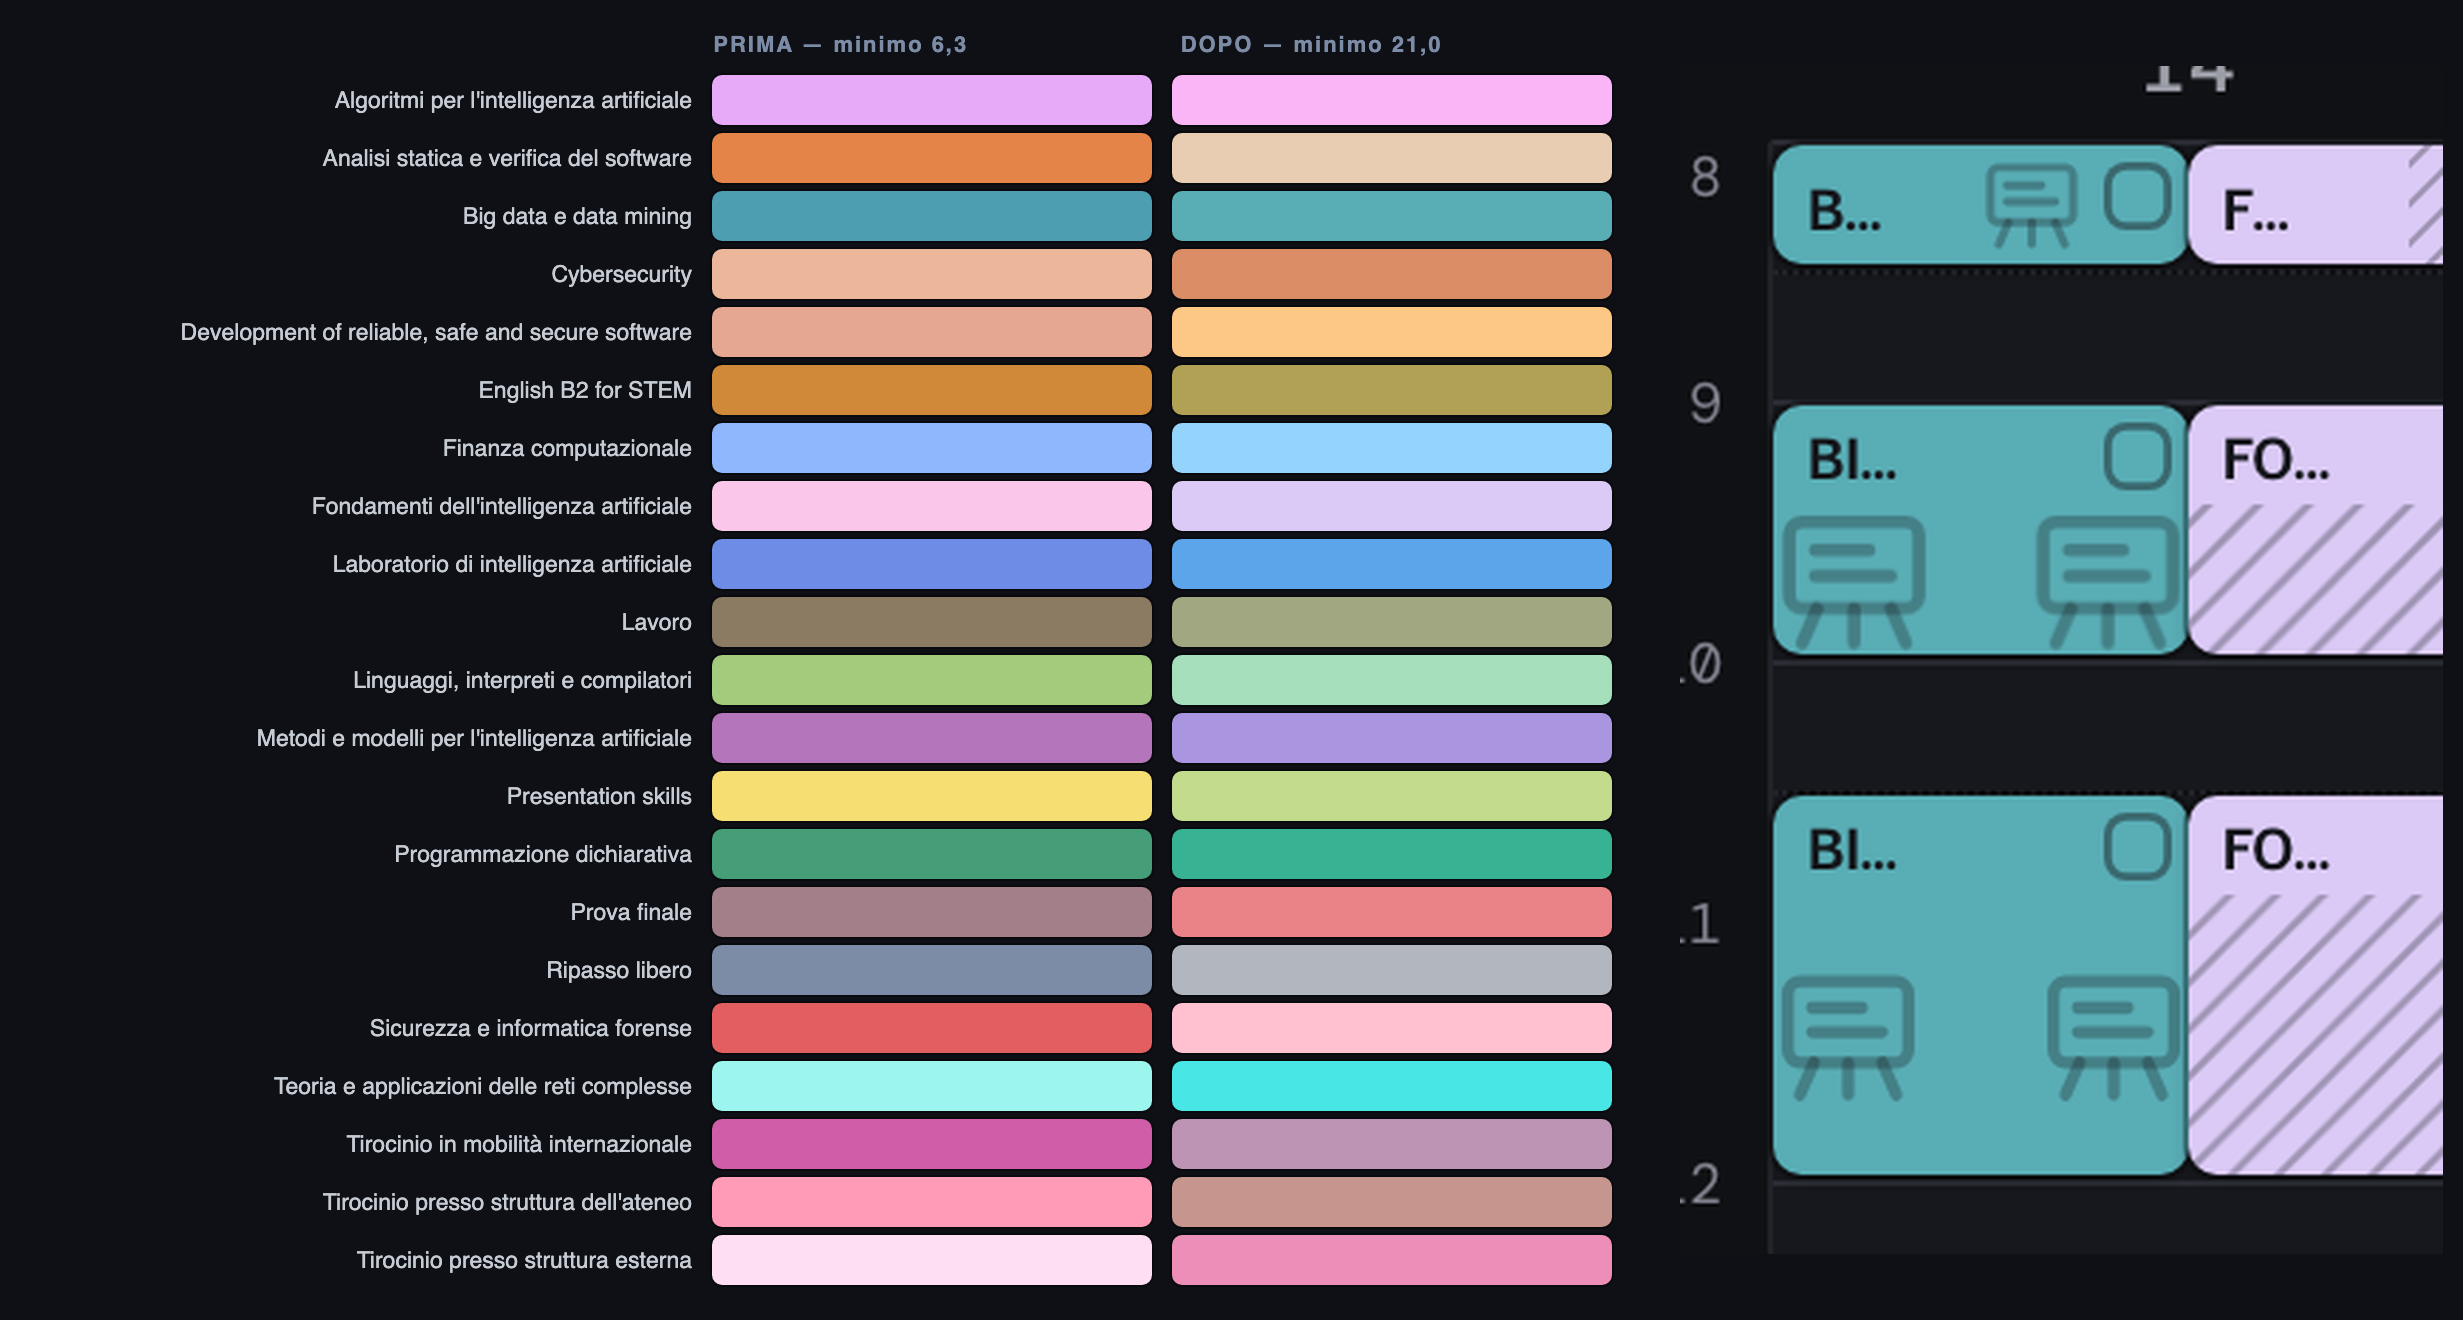
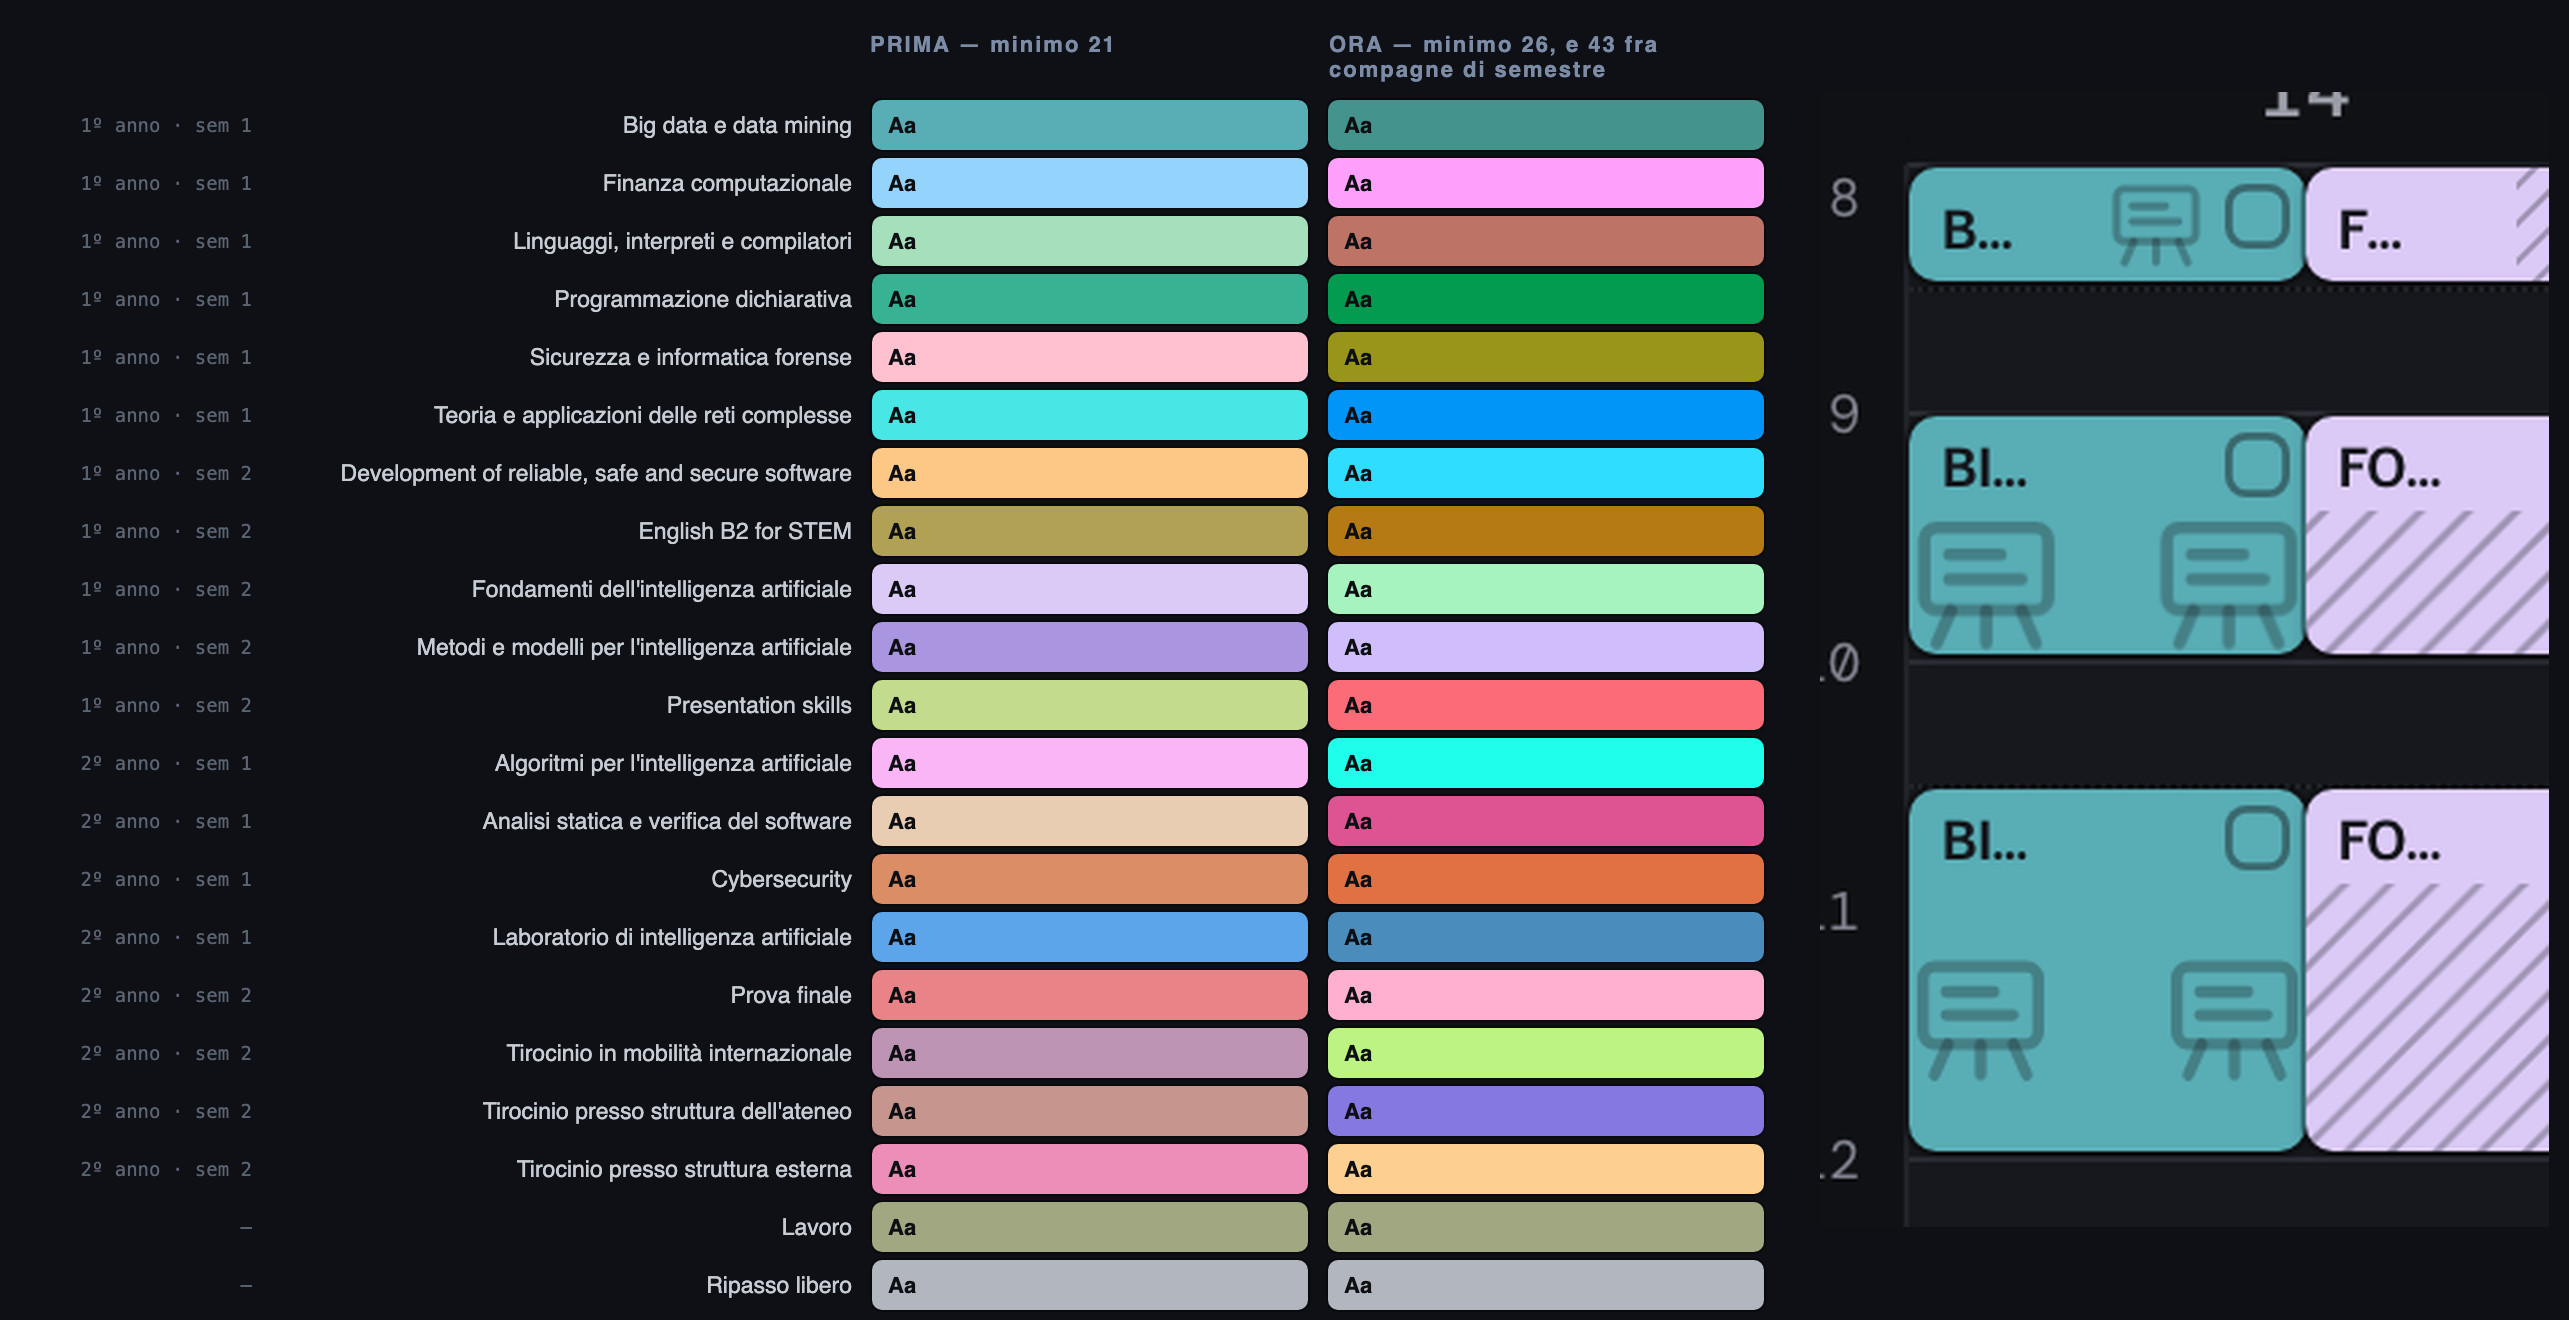
Colori davvero diversi: via le famiglie, e chi divide il semestre sta lontano
Avevo lasciato a meta'. Il primo giro teneva ogni materia dentro la sua
famiglia di tinta — dati sul turchese, sicurezza sul rosso — e proprio per
questo teneva vicine le tinte che poi si guardano una accanto all'altra dentro
la stessa settimana: la coppia peggiore stava a 21, meglio di 6,3 ma non
abbastanza.

Tre cose cambiate, in ordine di quanto contano.

Le famiglie non ci sono piu': le ventuno tinte sono scelte solo per stare
lontane fra loro. La gamma comprende anche toni piu' scuri, perche' il limite
vero non e' il colpo d'occhio ma il 4,5:1 di contrasto con la scritta nera, che
regge fino a L* 56 — mi ero fermato a 66 senza motivo.

La chiarezza pesa meno della meta' nel calcolo della distanza. Col peso pieno
il primo tentativo arrivava a 32, ma se lo prendeva quasi tutto sulla
chiarezza: due verdi, uno chiaro e uno scuro, che il numero diceva lontani e
l'occhio diceva parenti. Meglio 26 di distanza fatta di tinta.

Poi l'assegnazione, che e' la parte che si vede davvero. Chi divide il semestre
finisce nella stessa settimana, ed e' li' che due colori simili si scambiano di
posto: le compagne di semestre si scambiano il colore finche' la coppia
peggiore, li' dentro, non e' la piu' lontana possibile. Passa da 26 a 43. Nel
tuo primo semestre adesso ci sono un teal, un verde pieno, un magenta, un
mattone, un oliva e un blu: sei tinte che non si somigliano.

Nel farlo e' saltato fuori un controllo del pomodoro che dipendeva dall'ora
[…]

diff --git a/index.html b/index.html
@@ -1603,10 +1603,10 @@ const COURSES={
    qualunque, misurata in CIELAB, passa da 7 a 19; tutte stanno sopra il 5:1
    di contrasto con la scritta nera, e nessuna somiglia al grigio del ripasso
    libero o al verde-oliva del lavoro. */
-const PAL=["#FF97B3","#E7857D","#FBC5BA","#C59774","#FBC181","#E3D0A4",
-           "#B49F54","#D0D886","#80AD67","#8FE4AC","#ADDCC7","#19B49F",
-           "#69ABAE","#6CE3ED","#02ADDE","#9CD9FE","#83A3CB","#79A0EB",
-           "#D2CCFD","#B392DB","#FEB4F4","#CA90A8"];
+const PAL=["#AD7881","#E3575F","#F8B09A","#AE7C49","#FAAA52","#FAE0A1",
+           "#92881F","#E9E86F","#5EA749","#AEF3B2","#19BC8C","#1FFDEB",
+           "#A8F0E9","#0B9691","#2DD8FF","#3B8FB4","#14A8FD","#8680B5",
+           "#DDC8FF","#AA6CD1","#FAA0CC","#DE5493"];
 const SWATCHES=["#6E8BFF","#8FA4E8","#5FA8D3","#4A8FBE","#63C2C2","#4EA5A5",
                 "#4FB3A0","#3F8F7E","#82B356","#6B9440","#B0A24E","#E0A458",
                 "#C98A3C","#E08A5B","#BF6E44","#D96C7B","#B85566","#C97BB0",
@@ -2178,45 +2178,50 @@ const shortOf=n=>n.length>17?n.slice(0,16)+"…":n;
    quattro della chiusura del percorso, che però stanno tutti nello stesso
    semestre e dovendo distinguersi solo per luminosità strozzavano l'intera
    tavolozza. Tutti reggono il testo nero, da 5,0:1 a 14,6:1. */
-/* Il colore di ogni materia. Stanno in famiglie — dati e reti sul turchese,
-   sicurezza sul rosso, intelligenza artificiale sul viola — perché la famiglia
-   aiuta a orientarsi in un piano da venti materie. Ma dentro la famiglia si
-   somigliavano troppo: due tinte del gruppo sicurezza distavano 6,3 in CIELAB,
-   e sotto 20 due blocchi vicini si leggono come lo stesso blocco. Adesso ogni
-   materia resta nella sua famiglia — la tinta si sposta al massimo di trenta
-   gradi — e la distanza se la prende sulla chiarezza e sulla saturazione: la
-   coppia più vicina sta a 21. Nessuna scende sotto 5:1 di contrasto con la
-   scritta nera, che sui blocchi è sempre nera. */
+/* Il colore di ogni materia. Le famiglie non ci sono piu' — dati sul
+   turchese, sicurezza sul rosso — perche' tenerle voleva dire tenere vicine
+   proprio le tinte che si guardano una accanto all'altra nella stessa
+   settimana. Le ventuno tinte sono scelte per stare lontane in CIELAB, con la
+   chiarezza che pesa meno della meta': due colori che cambiano solo di
+   chiarezza restano parenti all'occhio anche quando il numero dice il
+   contrario, ed era il difetto del primo tentativo. La coppia piu' vicina in
+   assoluto sta a 26 (all'inizio 6,3), ed e' quella fra ripasso libero e
+   lavoro, che sono neutri di proposito; fra le materie il minimo e' 28.
+   Poi l'assegnazione: chi divide il semestre finisce nella stessa settimana,
+   quindi le compagne di semestre si scambiano il colore fino a stare il piu'
+   lontano possibile fra loro — la coppia peggiore, li' dentro, passa da 26 a
+   43. La gamma comprende toni piu' scuri di prima: il limite vero e' il 4,5:1
+   di contrasto con la scritta nera, che regge fino a L* 56. */
 const MATCOL={
   /* Dati e reti */
-  "c:1009070":"#59ADB5",
-  "c:1014075":"#48E7E5",
+  "c:1009070":"#44938C",
+  "c:1014075":"#0195F7",
   /* Metodi numerici */
-  "c:1013075":"#94D4FC",
+  "c:1013075":"#FEA0FC",
   /* Linguaggi e programmazione */
-  "c:1009064":"#A5DFBB",
-  "c:1009066":"#37B393",
+  "c:1009064":"#BD7365",
+  "c:1009066":"#039B4F",
   /* Sicurezza e affidabilità */
-  "c:1014073":"#FFC1D0",
-  "c:1010559":"#DB8E65",
-  "c:1009069":"#FDC885",
-  "c:1013066":"#E9CDB2",
+  "c:1014073":"#98951A",
+  "c:1010559":"#E17143",
+  "c:1009069":"#2FDEFF",
+  "c:1013066":"#DE5493",
   /* Intelligenza artificiale */
-  "c:1009065":"#DBCAF6",
-  "c:1013067":"#A995E0",
-  "c:1009071":"#FAB5F7",
-  "c:1009073":"#5CA5EB",
+  "c:1009065":"#A7F3C0",
+  "c:1013067":"#CFBDFC",
+  "c:1009071":"#1FFDEB",
+  "c:1009073":"#4A8CBC",
   /* Lingua e competenze */
-  "c:1010779":"#B1A154",
-  "c:1007808":"#C3DB8C",
+  "c:1010779":"#B67A15",
+  "c:1007808":"#FC6C78",
   /* voci di servizio: ripasso senza materia e lavoro, neutre di proposito */
   "_gen":"#B2B7BF",
   "_lav":"#A1A781",
   /* Chiusura del percorso */
-  "c:24688":"#E98387",
-  "c:1006660":"#BE94B4",
-  "c:1006659":"#C5958E",
-  "c:1006658":"#ED8EB8"
+  "c:24688":"#FFB0D1",
+  "c:1006660":"#BDF382",
+  "c:1006659":"#8578E1",
+  "c:1006658":"#FDD091"
 };
 
 /* Colore predefinito ricavato dall'id, così resta lo stesso in ogni anno e

diff --git a/test/suite.js b/test/suite.js
@@ -134,14 +134,19 @@
        il primo si chiude e il secondo prende quello che resta */
     pulisci();apri();
     state.pomConf={SCH:{s:45,b:12,l:20,n:2}};
-    placeRun(oggi,ORA,{i:it[0].id,a:"SCH",len:3},0);
-    placeRun(oggi,ORA+4,{i:it[0].id,a:"SCH",len:3},0);
-    var g=slotDiOggi("SCH");
-    pomStart("SCH",[{date:g.date,start:g.start,lane:g.lane}]);
+    /* Ore fisse del mattino, non l'ora di adesso: partendo da ORA, un banco di
+       prova lanciato di sera piazzava il secondo blocco a mezzanotte, fuori
+       dalla giornata, e il controllo diventava rosso per l'orologio invece che
+       per un difetto. Restano tutt'e due nella stessa fascia, che e' quello
+       che il controllo vuole provare. */
+    var A=8*PERQ,B=10*PERQ;
+    placeRun(oggi,A,{i:it[0].id,a:"SCH",len:3},0);
+    placeRun(oggi,B,{i:it[0].id,a:"SCH",len:3},0);
+    pomStart("SCH",[{date:oggi,start:A,lane:0}]);
     for(var i=0;i<6;i++)pomAdvance(true);
     var c=function(a,b){var k=0;for(var j=a;j<b;j++){
       var v=at(ck(oggi,j))[0];if(v&&v.done)k++;}return k;};
-    var uno=c(ORA,ORA+3),due=c(ORA+4,ORA+7),fermo=state.pomRun===null;
+    var uno=c(A,A+3),due=c(B,B+3),fermo=state.pomRun===null;
     state.pomRun=null;state.pomConf={};
     /* il primo si chiude, il secondo prende il resto e la sua ultima mezz'ora
        si chiude con la sessione che se l'è quasi tutta mangiata; finita la
@@ -365,7 +370,25 @@
     }
     var fioca=col.filter(function(o){return contrasto(o.c)<4.5;});
     if(fioca.length)return "la scritta nera non regge su "+fioca[0].n+" "+fioca[0].c;
-    return dmin>=18?true:"troppo vicine ("+dmin.toFixed(1)+"): "+peggio;});
+    /* ventiquattro con un po' di margine sotto il ventisei che la tavolozza
+       garantisce: sotto venti due blocchi vicini si leggono uguali */
+    if(dmin<24)return "troppo vicine ("+dmin.toFixed(1)+"): "+peggio;
+    /* Chi divide il semestre finisce nella stessa settimana, e li' due colori
+       simili si scambiano di posto davvero: fra compagne di semestre si
+       pretende molto di piu' che fra due materie di anni diversi. */
+    var per={};
+    allCourses().forEach(function(o){
+      var k=o.year+"."+o.sem;(per[k]=per[k]||[]).push(o);});
+    var pmin=1e9,pp=null;
+    Object.keys(per).forEach(function(k){
+      var g=per[k];
+      for(var i=0;i<g.length;i++)for(var j=i+1;j<g.length;j++){
+        var A=lab(g[i].color||autoColor(g[i].id)),B=lab(g[j].color||autoColor(g[j].id));
+        var d=Math.sqrt(Math.pow(A[0]-B[0],2)+Math.pow(A[1]-B[1],2)+Math.pow(A[2]-B[2],2));
+        if(d<pmin){pmin=d;pp=k+": "+g[i].short+" e "+g[j].short;}
+      }});
+    return (pp===null||pmin>=38)?true:
+      "nello stesso semestre stanno a "+pmin.toFixed(1)+" ("+pp+")";});
 
 
   /* Il segnale di fine fase deve arrivare due volte: la prima puo' capitare
